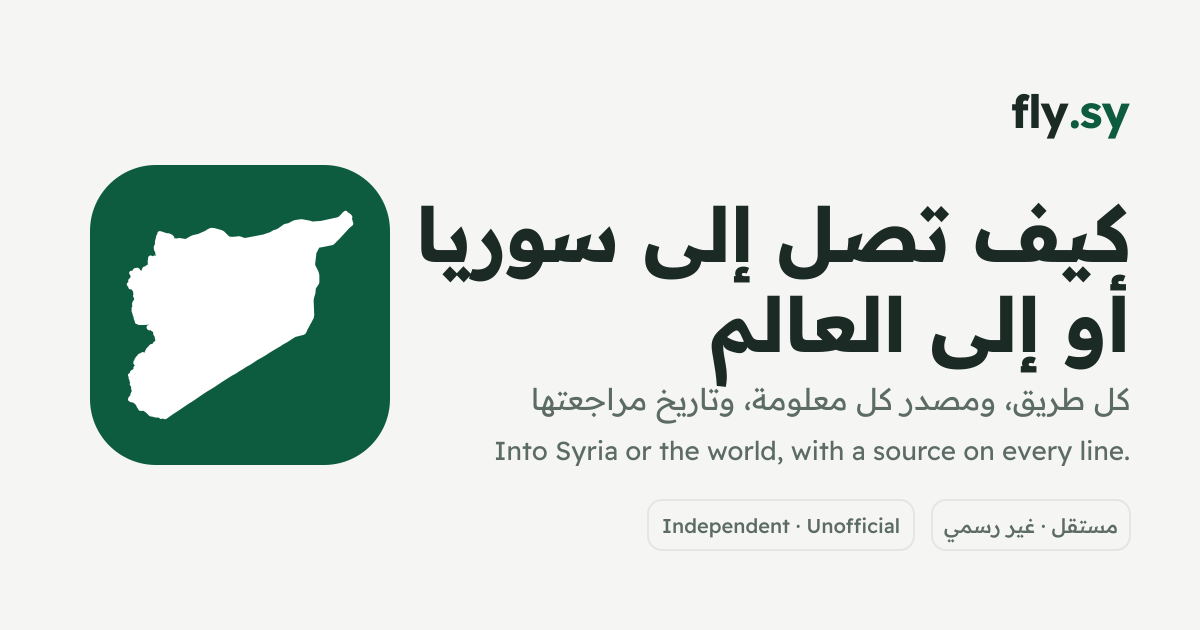
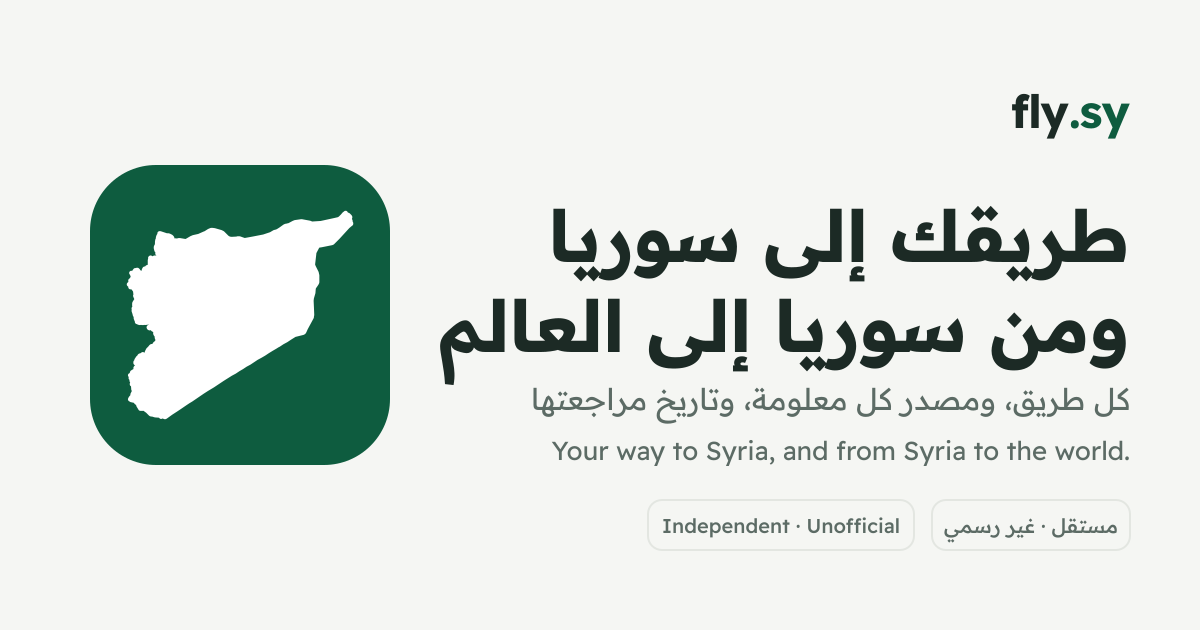
Tagline: طريقك إلى سوريا، ومن سوريا إلى العالم
The owner renamed the site's line to "طريقك إلى سوريا، ومن سوريا إلى العالم",
in English "Your way to Syria, and from Syria to the world". It replaces
"How to get into Syria or the world" everywhere that line went: the page
titles, the home heading, the share card and its alt text, the manifest,
the WebSite schema's alternateName, llms.txt and the README.

The home heading drops "today", which no longer fits the sentence. The
English home title ends "flights, land crossings and papers" to stay within
the 90-character title limit. On the share card the two big lines are 72px
instead of 76px so that "ومن سوريا إلى العالم" clears the tile, and the
English line under them is the same slogan.

Claude-Session: https://claude.ai/code/session_018VpAPHGKejFBDQUn9XAYdg

Changed region(s): [[0.3392, 0.3317, 0.9558, 0.6333], [0.4008, 0.6937, 0.9558, 0.754]]

diff --git a/src/messages/index.ts b/src/messages/index.ts
@@ -4,10 +4,10 @@ const messages = {
   ar: {
     brand: "fly.sy",
     meta: {
-      title: "fly.sy — كيف تصل إلى سوريا أو إلى العالم",
+      title: "fly.sy — طريقك إلى سوريا، ومن سوريا إلى العالم",
       description: "كل طريق إلى سوريا ومنها، مع مصدر كل معلومة وتاريخ مراجعتها. موقع مستقل غير رسمي.",
       // Alt text for the share card, which carries the same words as an image.
-      card: "fly.sy — كيف تصل إلى سوريا أو إلى العالم. كل طريق، ومصدر كل معلومة، وتاريخ مراجعتها. مستقل، غير رسمي.",
+      card: "fly.sy — طريقك إلى سوريا، ومن سوريا إلى العالم. كل طريق، ومصدر كل معلومة، وتاريخ مراجعتها. مستقل، غير رسمي.",
     },
     tabs: { plan: "رحلتي", airlines: "الطيران", crossings: "المعابر", news: "الأخبار", reports: "تجارب", links: "روابط رسمية", about: "عن الموقع" },
     // The navigation's own short labels. Breadcrumbs and footer links keep the fuller names in `tabs`.
@@ -80,7 +80,7 @@ const messages = {
     blockedWhy: "مفتوح للسوريين والأتراك وحاملي الجنسيتين فقط.",
     fromCity: "من",
     home: "الرئيسية",
-    homeTitle: "كيف تصل إلى سوريا أو إلى العالم اليوم",
+    homeTitle: "طريقك إلى سوريا، ومن سوريا إلى العالم",
     langSwitch: "Read in English",
     airlines: {
       title: "من يطير إلى سوريا",
@@ -278,7 +278,7 @@ const messages = {
     },
     seo: {
       home: {
-        title: "كيف تصل إلى سوريا أو إلى العالم: الطيران والمعابر البرية والأوراق المطلوبة",
+        title: "طريقك إلى سوريا، ومن سوريا إلى العالم: الطيران والمعابر البرية والأوراق المطلوبة",
         description:
           "كل طريق إلى سوريا اليوم من تركيا ولبنان والأردن والخليج وأوروبا، وكل طريق منها إليها: الرحلات الجوية والمعابر البرية والوقت المتوقع والأوراق المطلوبة، مع مصدر كل معلومة وتاريخ مراجعتها.",
       },
@@ -348,9 +348,9 @@ const messages = {
   en: {
     brand: "fly.sy",
     meta: {
-      title: "fly.sy — How to get into Syria or the world",
+      title: "fly.sy — Your way to Syria, and from Syria to the world",
       description: "Every route into Syria and out of it, with the source and the date checked on every line. Independent and unofficial.",
-      card: "fly.sy — How to get into Syria or the world. Every route, with a source on every line. Independent, unofficial.",
+      card: "fly.sy — Your way to Syria, and from Syria to the world. Every route, with a source on every line. Independent, unofficial.",
     },
     tabs: { plan: "Plan", airlines: "Airlines", crossings: "Crossings", news: "News", reports: "Reports", links: "Official links", about: "About" },
     nav: {
@@ -421,7 +421,7 @@ const messages = {
     blockedWhy: "Open to Syrians, Turkish citizens and dual nationals only.",
     fromCity: "from",
     home: "Home",
-    homeTitle: "How to get into Syria or the world today",
+    homeTitle: "Your way to Syria, and from Syria to the world",
     langSwitch: "اقرأ بالعربية",
     airlines: {
       title: "Who flies to Syria",
@@ -619,7 +619,7 @@ const messages = {
     },
     seo: {
       home: {
-        title: "How to get into Syria or the world: flights, land crossings and the papers you need",
+        title: "Your way to Syria, and from Syria to the world: flights, land crossings and papers",
         description:
           "Every way into Syria today from Türkiye, Lebanon, Jordan, the Gulf and Europe, and every way out to them: flights, land crossings, journey times and documents, with a source and check date on every line.",
       },

diff --git a/src/lib/llms.ts b/src/lib/llms.ts
@@ -38,7 +38,7 @@ function intro(): string[] {
   return [
     "# fly.sy",
     "",
-    "> How to get into Syria or the world: every flight and land crossing into Syria and out of it, and the documents to enter, with the source, confidence level and date last checked on every line. Independent and unofficial: not part of any government body, airline or embassy. It sells nothing and takes no commission.",
+    "> Your way to Syria, and from Syria to the world: every flight and land crossing into Syria and out of it, and the documents to enter, with the source, confidence level and date last checked on every line. Independent and unofficial: not part of any government body, airline or embassy. It sells nothing and takes no commission.",
     "",
     `Facts last reviewed ${DATA.meta.updated}. Arabic is the main language, at ${SITE_URL}; English is at ${en("/")}. Every English page listed here has an Arabic version at the same path without /en.`,
     "",

diff --git a/src/app/manifest.ts b/src/app/manifest.ts
@@ -5,7 +5,7 @@ import type { MetadataRoute } from "next"
 // cookie, which a manifest cannot see.
 export default function manifest(): MetadataRoute.Manifest {
   return {
-    name: "fly.sy — كيف تصل إلى سوريا أو إلى العالم",
+    name: "fly.sy — طريقك إلى سوريا، ومن سوريا إلى العالم",
     short_name: "fly.sy",
     description: "كل طريق إلى سوريا ومنها، مع مصدر كل معلومة وتاريخ مراجعتها. موقع مستقل غير رسمي.",
     lang: "ar",

diff --git a/src/lib/schema.ts b/src/lib/schema.ts
@@ -30,7 +30,7 @@ export function websiteLd(locale: Locale) {
     "@type": "WebSite",
     "@id": WEBSITE_ID,
     name: SITE_NAME,
-    alternateName: locale === "ar" ? "كيف تصل إلى سوريا أو إلى العالم" : "How to get into Syria or the world",
+    alternateName: locale === "ar" ? "طريقك إلى سوريا، ومن سوريا إلى العالم" : "Your way to Syria, and from Syria to the world",
     url: SITE_URL,
     inLanguage: ["ar", "en"],
     publisher: { "@id": ORG_ID },

diff --git a/README.md b/README.md
@@ -1,4 +1,4 @@
-# fly.sy — كيف تصل إلى سوريا أو إلى العالم
+# fly.sy — طريقك إلى سوريا، ومن سوريا إلى العالم
 
 An independent, unofficial, open-source answer sheet for getting into Syria, and from Syria to the world: every
 flight, land crossing and paperwork requirement, with the **source**, **confidence level** and **date last checked** on every line —
